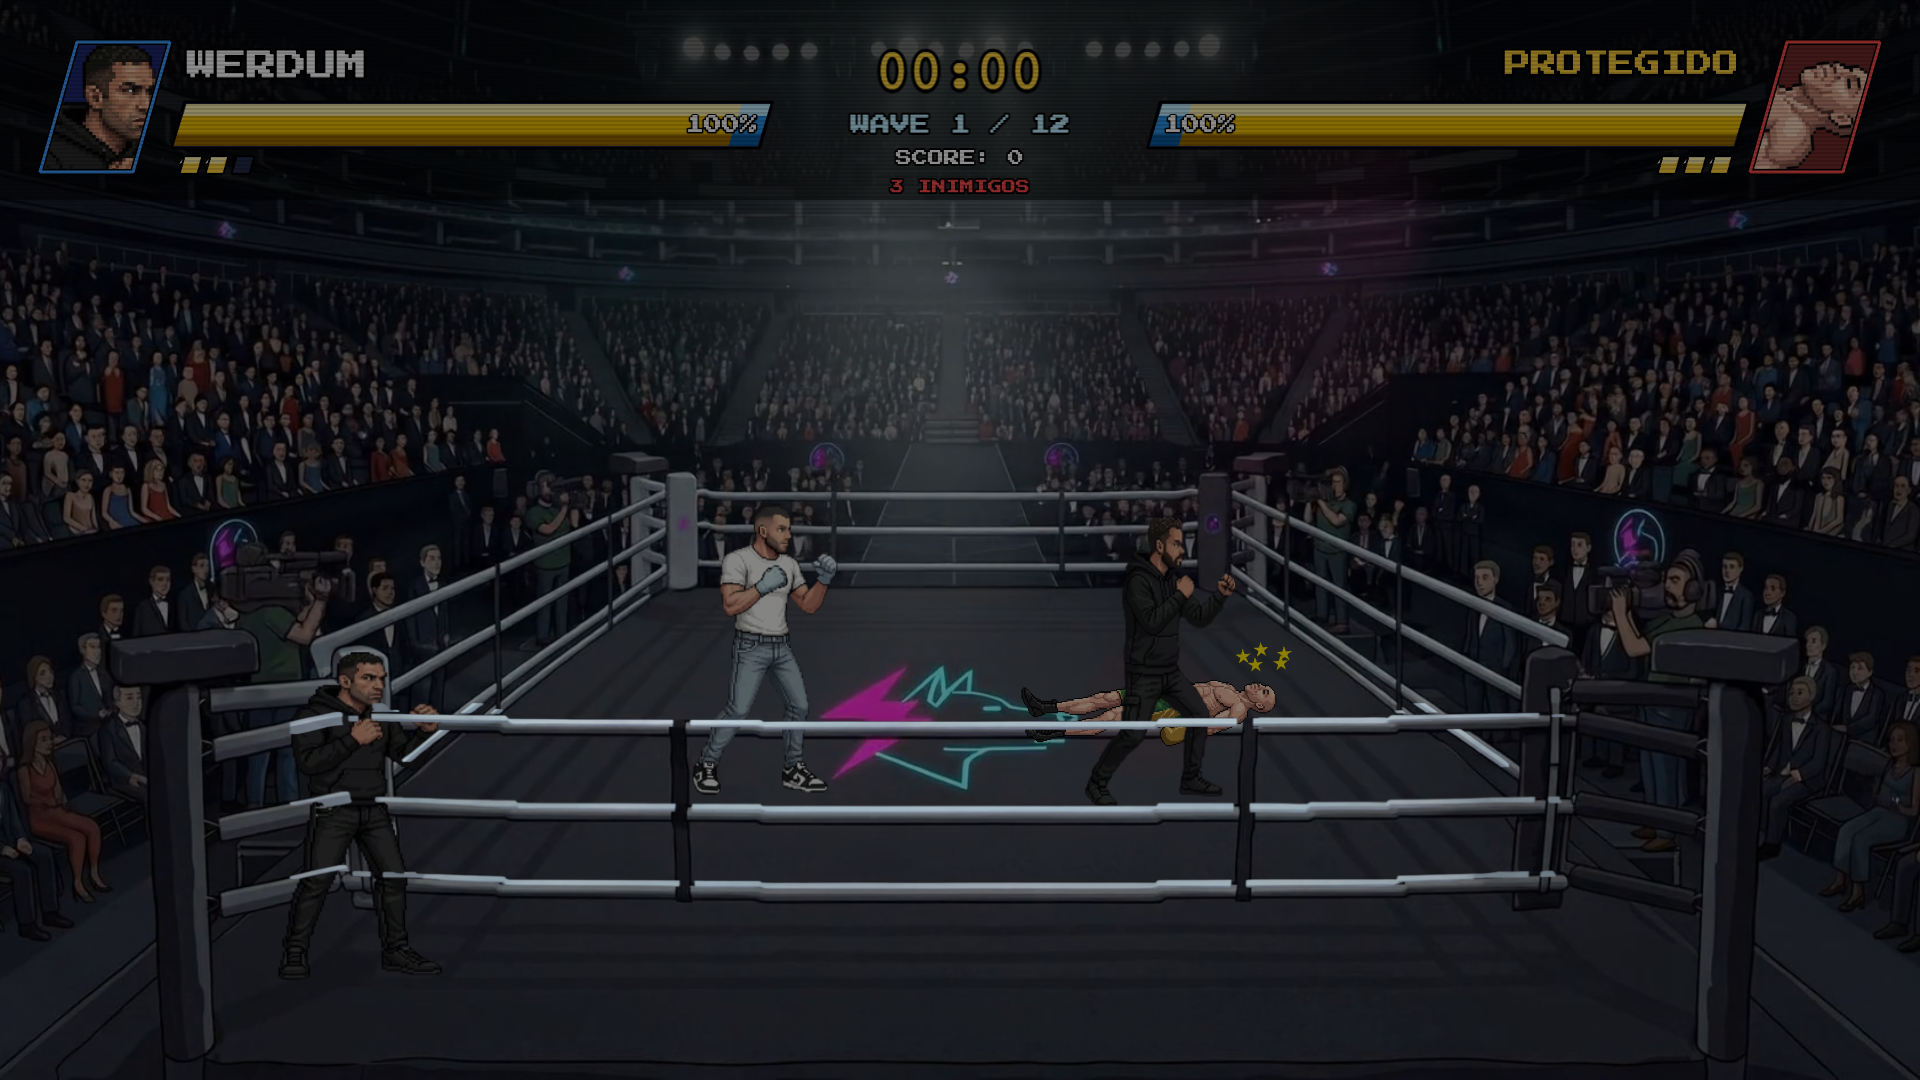
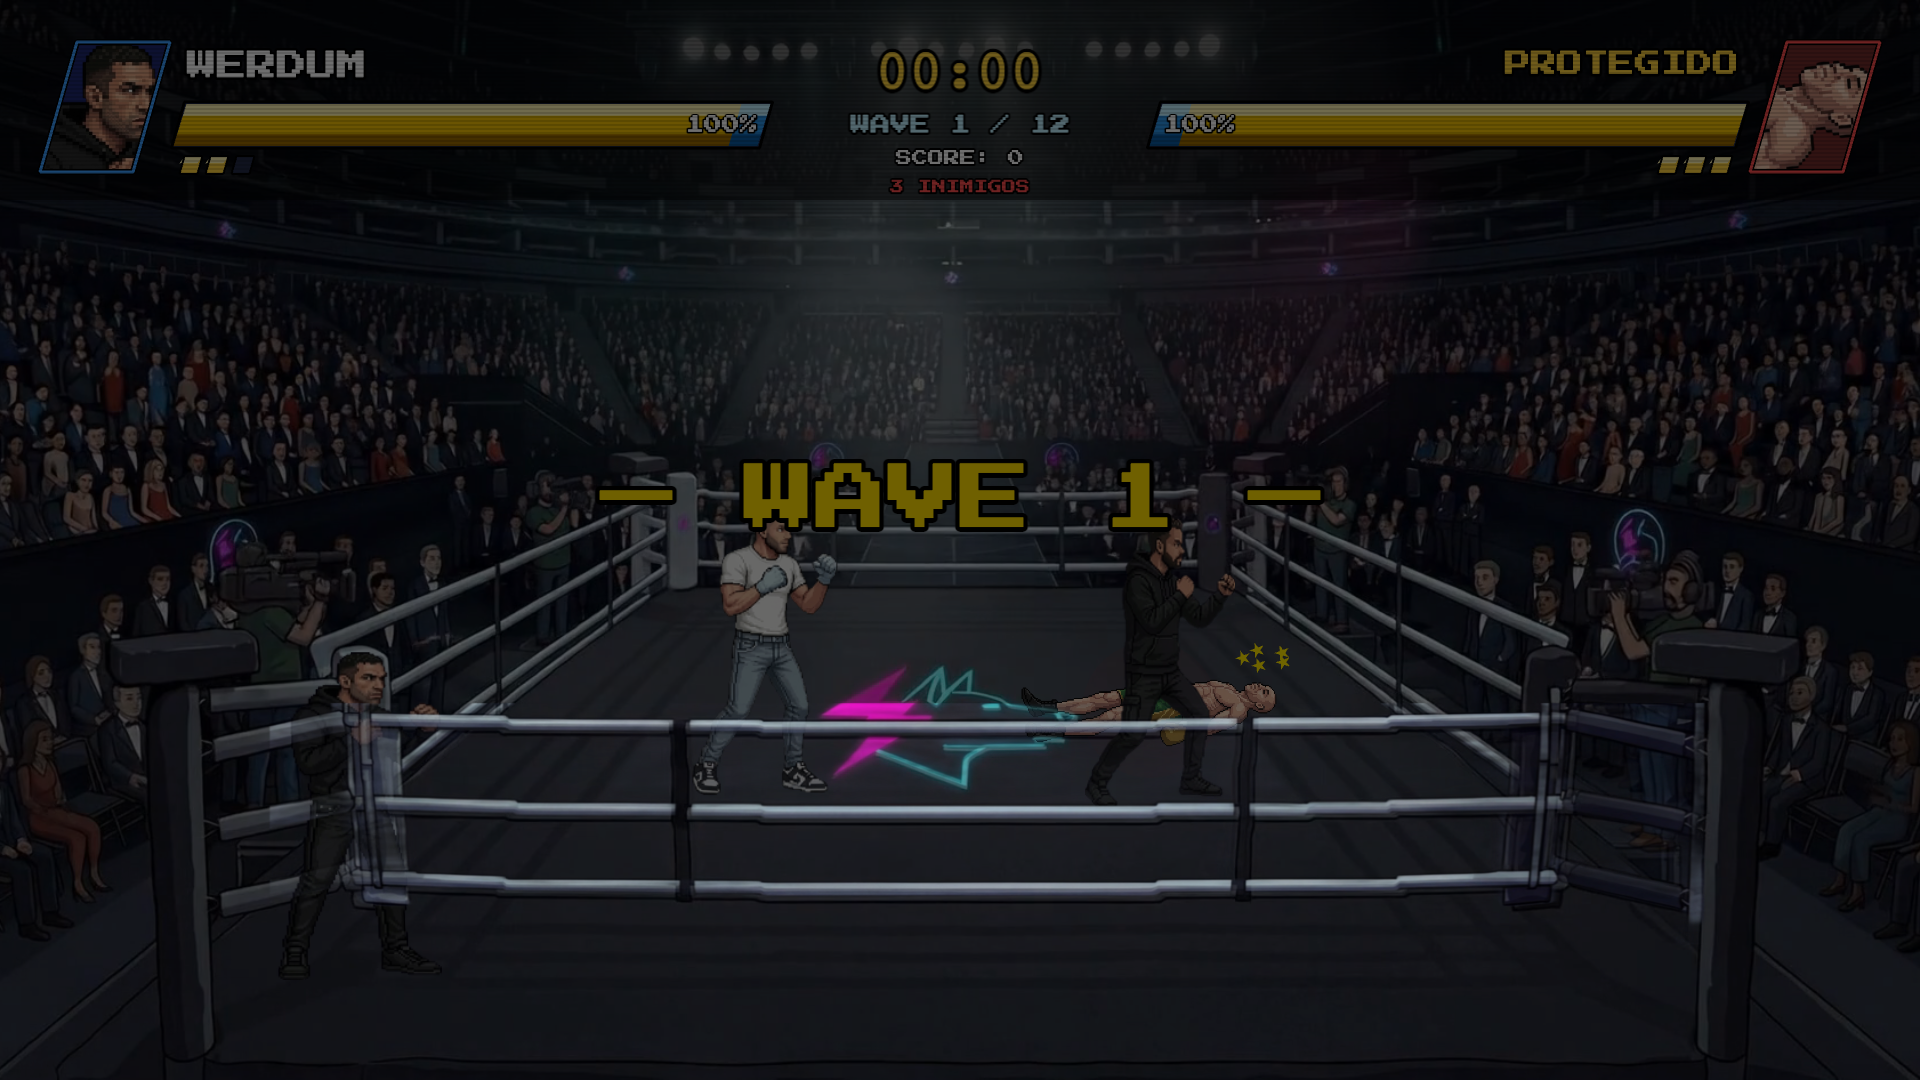
fix(v2): cordas da frente via SEGMENTAÇÃO (remove_background em faixa justa) — espessura cheia + faixas pretas + alinhado; religa #arena-front (Fatia V) [skip-gate]

diff --git a/src/scenes/GameScene.ts b/src/scenes/GameScene.ts
@@ -180,17 +180,23 @@ export class GameScene extends Phaser.Scene {
     // (arena-bg.png) cobre como fallback se o vídeo falhar. #arena-front = as mesmas cordas da
     // frente recortadas (mask do próprio back), na frente do canvas → lutadores renderizam ATRÁS
     // delas (profundidade). Mesma fonte = alinhamento pixel-perfeito. Ambos cover → reveal lateral.
+    // #arena-front = cordas da frente recortadas por SEGMENTAÇÃO (remove_background numa faixa
+    // justa do próprio back) → espessura cheia + faixas pretas + pixels originais alinhados.
+    // Lutador renderiza ATRÁS (profundidade).
     const arenaBg = document.getElementById('arena-bg') as HTMLVideoElement | null
+    const arenaFront = document.getElementById('arena-front')
     if (arenaBg) {
       if (!arenaBg.getAttribute('src')) arenaBg.src = 'videos/arena-loop.mp4'
       arenaBg.style.display = 'block'
       arenaBg.play().catch(() => { /* fallback: poster arena-bg.png cobre o fundo */ })
     }
-    // Camada #arena-front (profundidade: lutador atrás das cordas) DESLIGADA por enquanto — o
-    // recorte automático das cordas saía falhado (fino, sem as faixas pretas). As cordas já vêm
-    // inteiras no back. Religar quando houver um recorte manual limpo de arena-front.png.
+    if (arenaFront) {
+      arenaFront.style.backgroundImage = "url('imgs/cenario/arena-front.png')"
+      arenaFront.style.display = 'block'
+    }
     this.events.once(Phaser.Scenes.Events.SHUTDOWN, () => {
       if (arenaBg) { arenaBg.pause(); arenaBg.style.display = 'none' }
+      if (arenaFront) arenaFront.style.display = 'none'
     })
 
     // Wand (fundo direito do ringue) — posição do sim
